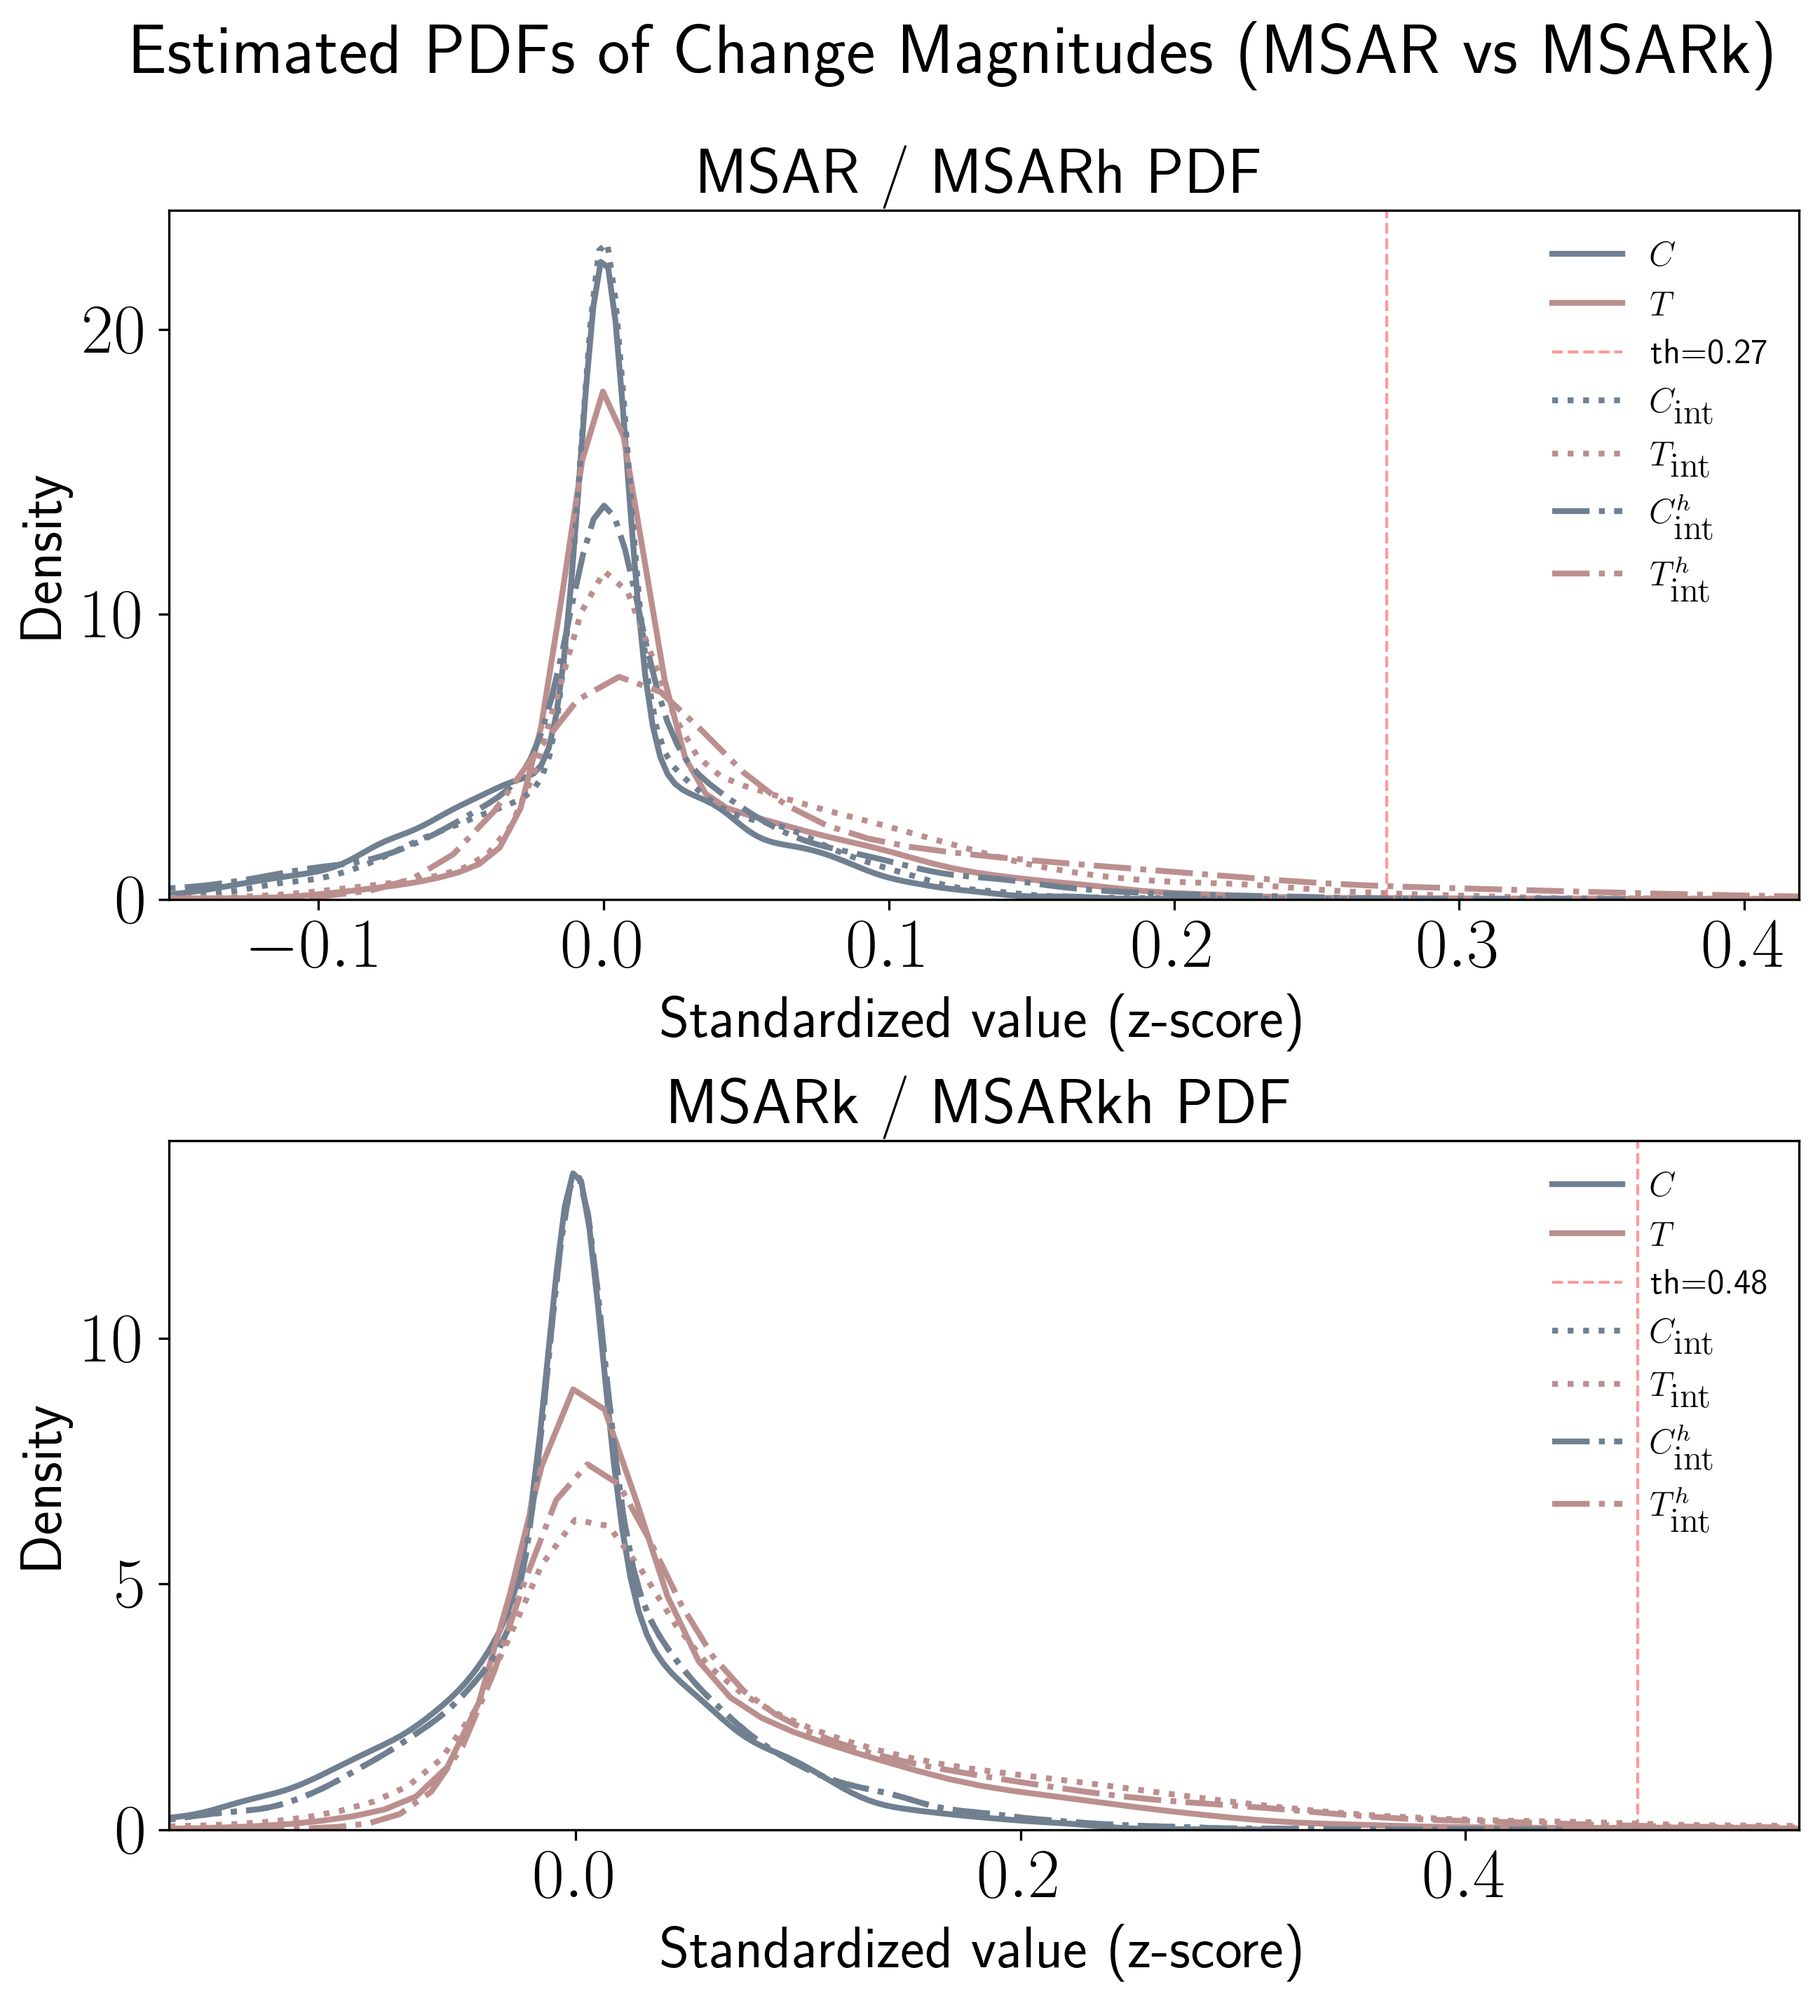
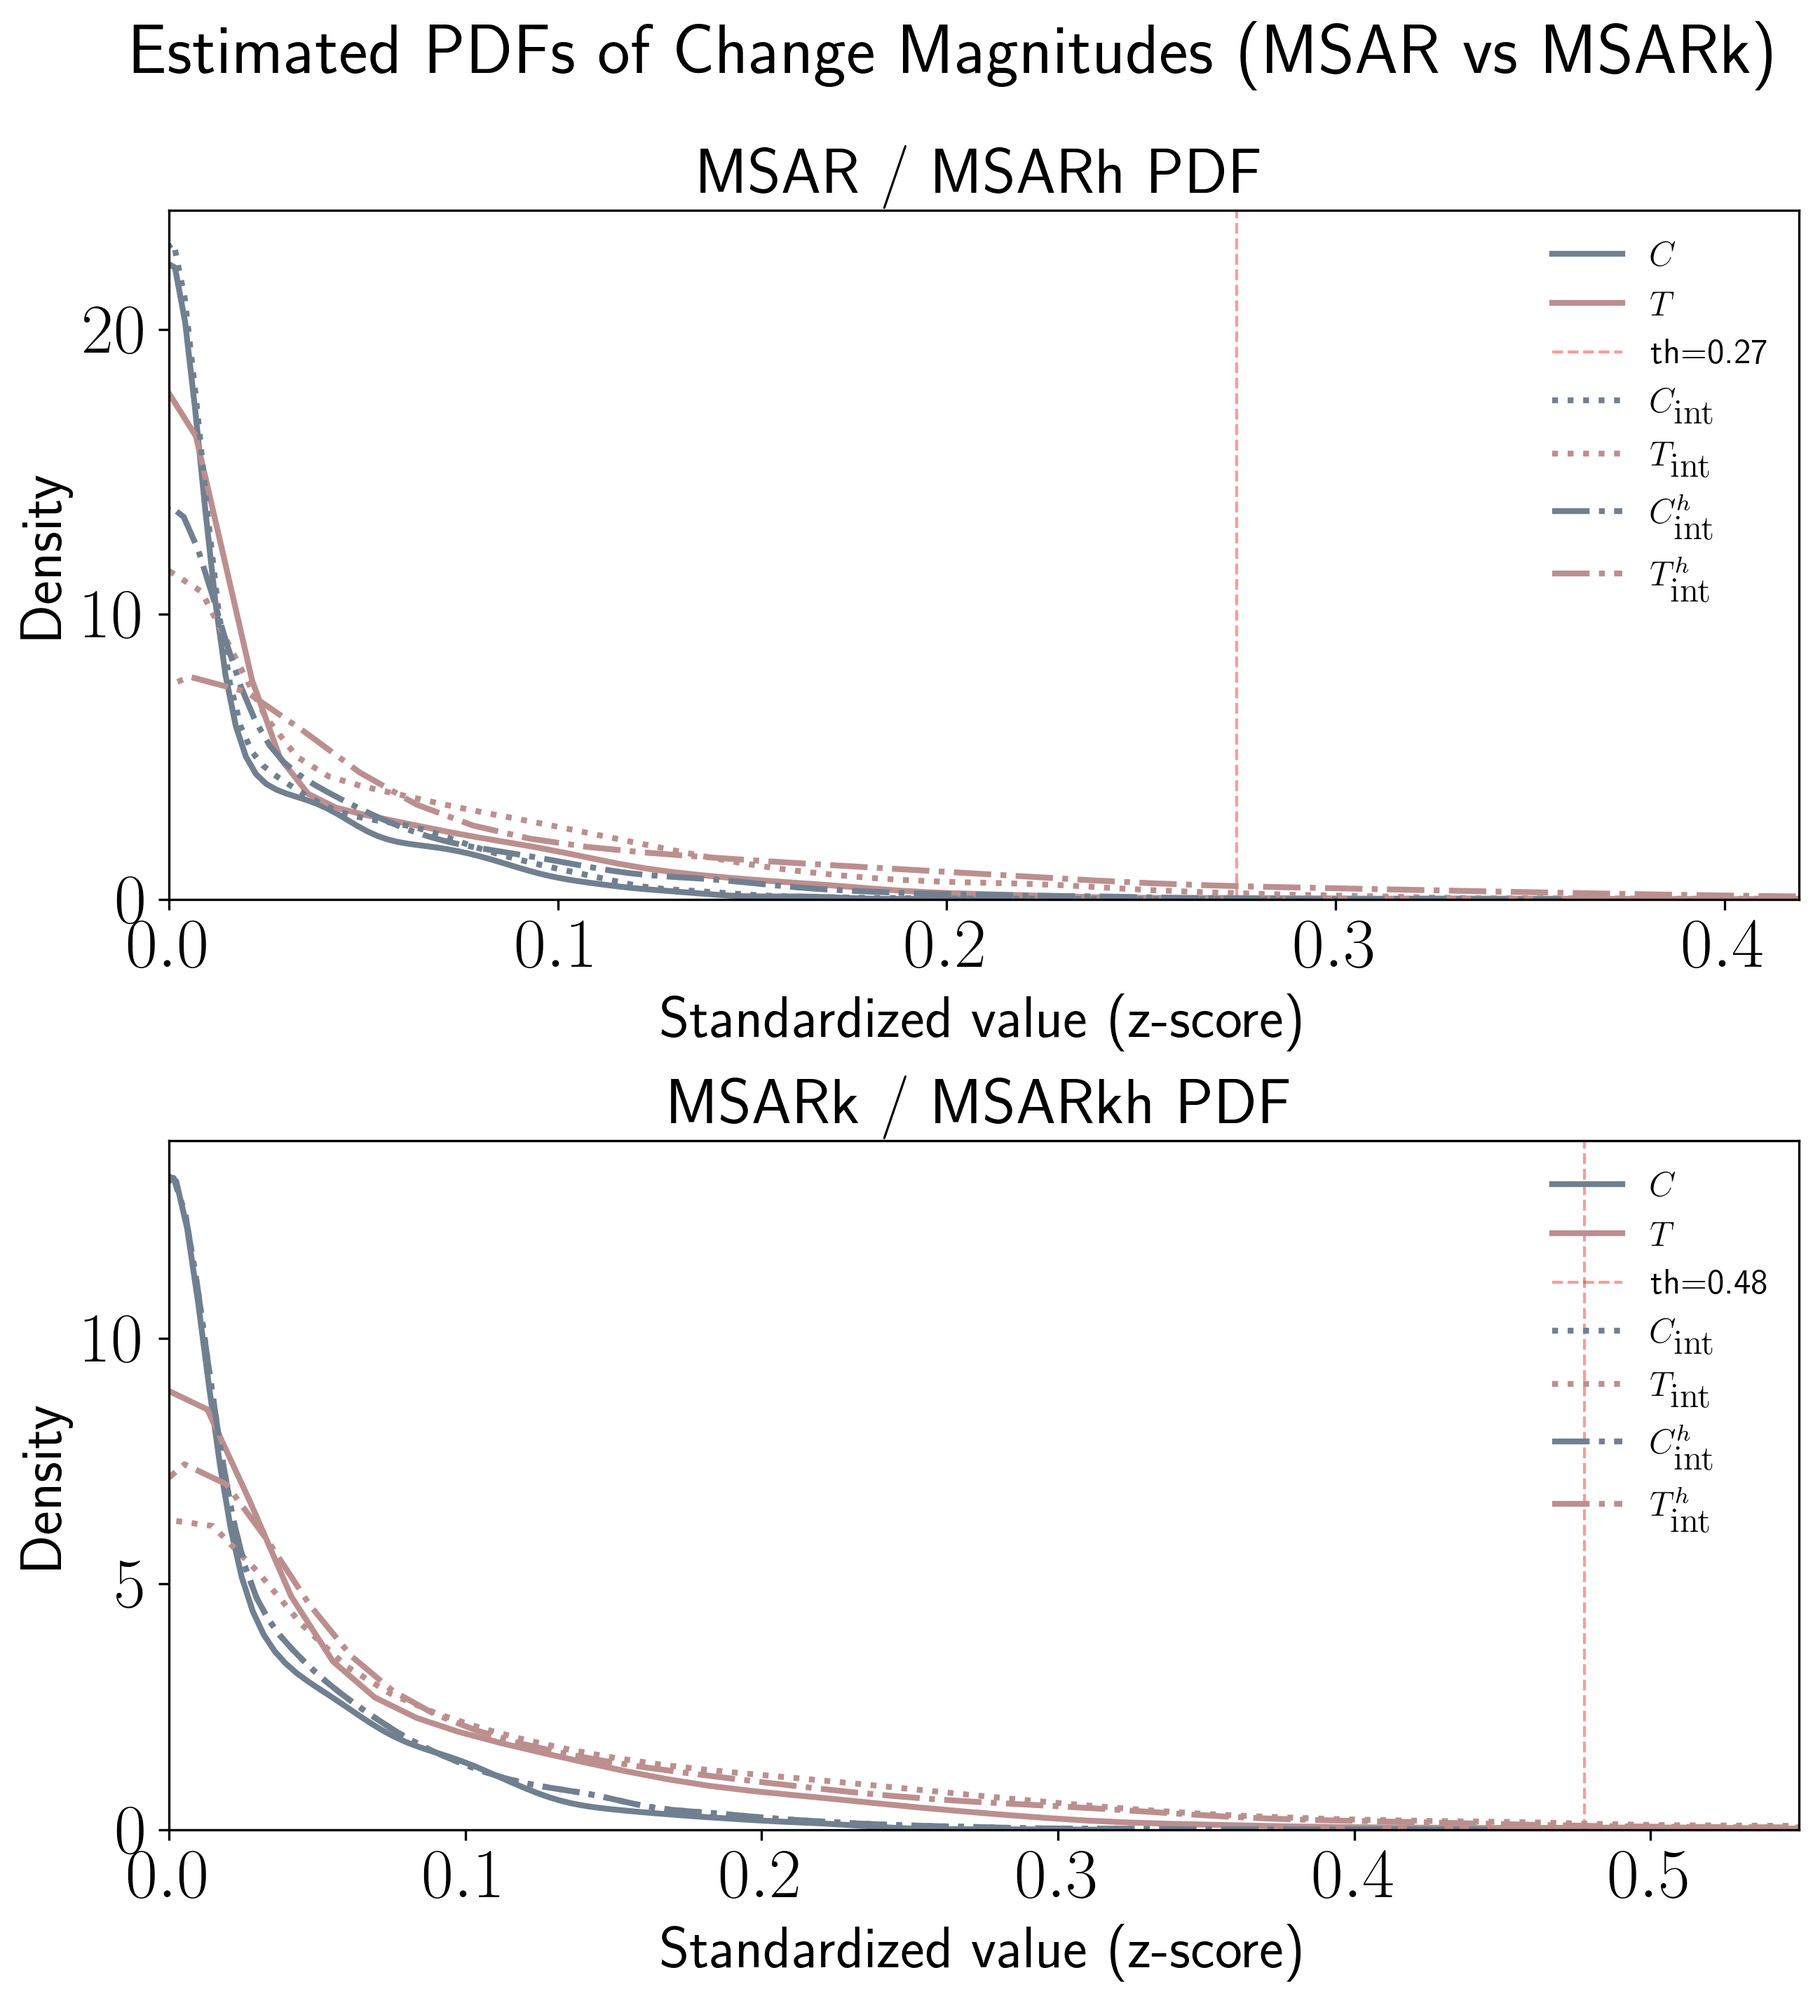
Plot ROC asjustements

diff --git a/results/PlotROC.py b/results/PlotROC.py
@@ -1,242 +1,107 @@
-from __future__ import division
+import matplotlib.pyplot as plt
 import numpy as np
-import time
-from matplotlib import pyplot as plt
-import array
-import scipy.io
-import scipy.io as io
-from sklearn.metrics import roc_curve, roc_auc_score
-
 import os
-import pyprind
-import re
-import scipy.io as sio
-import datetime
-import numpy as np
-import time
-from matplotlib import pyplot as plt
-import array
-import scipy.io
-import scipy.io as io
-import pyprind
 import math
+from scipy.io import loadmat
 from ast import literal_eval
 import scienceplots
-
 
 def OrderData(theta, tput_meas):
     Theta = sorted(set(theta))
     TPUT_meas = []
     for k in range(len(Theta)):
         indexes=[i for i, x in enumerate(theta) if x == Theta[k]]
-        Tput_meas= 0
-        for i in indexes:
-            Tput_meas += tput_meas[i]
+        Tput_meas = sum(tput_meas[i] for i in indexes)
         TPUT_meas.append(Tput_meas)
     return Theta, TPUT_meas
-
-
 
 if __name__ == "__main__":
 
     path = 'results/ROC/'
     pathOut = 'results/plots/'
     files_plots = [i for i in os.listdir(path) if i.endswith('.mat')]
-    
+
     PD = []
     PFA = []
-    window = []
     Type = []
-    pd=[];pfa=[]
+    AUCs = []
+    labels_latex = []
 
-    for i in range(len(files_plots)):
-        if files_plots[i].find('MSAR_') != -1:
-                #print(files_plots[i])
-                Test = r'MS-AR($6,1,0$)'
-                N = int(re.findall(r'[-+]?(?:\d*\.\d+|\d+)', files_plots[i][:-4])[0])
-                K = int(re.findall(r'[-+]?(?:\d*\.\d+|\d+)', files_plots[i][:-4])[1])
-                r = scipy.io.loadmat(path+files_plots[i])
-       
-                pfa_range=r['pfa_range.mat'][0].tolist()
-                PD_type=r['PD_type.mat'].tolist()[0]
-                FAR_type=r['FAR_type.mat'].tolist()[0]
-                
-                PD_type= literal_eval(PD_type)
-                
-                
-                FAR_type= literal_eval(FAR_type)  
-                
-                
-        elif files_plots[i].find('MSARkh_') != -1:
-                #print(files_plots[i])
-                Test = r'MS-AR($18,2,1$)'
-                N = int(re.findall(r'[-+]?(?:\d*\.\d+|\d+)', files_plots[i][:-4])[0])
-                K = int(re.findall(r'[-+]?(?:\d*\.\d+|\d+)', files_plots[i][:-4])[1])
-               
-                r = scipy.io.loadmat(path+files_plots[i])
-       
-                pfa_range=r['pfa_range.mat'][0].tolist()
-                PD_type=r['PD_type.mat'].tolist()[0]
-                FAR_type=r['FAR_type.mat'].tolist()[0]
-                
-                PD_type= literal_eval(PD_type)
-                
-                
-                FAR_type= literal_eval(FAR_type)
-                
-           
-        
-        elif files_plots[i].find('GPalm2020') != -1:
-                   Test = r'AR(n)-GSP\textsuperscript{[15]}'
-                   N = int(re.findall(r'[-+]?(?:\d*\.\d+|\d+)', files_plots[i][:-4])[0])
-                   K = int(re.findall(r'[-+]?(?:\d*\.\d+|\d+)', files_plots[i][:-4])[1])
-                   
+    for fname in files_plots:
+        file_path = os.path.join(path, fname)
+        r = loadmat(file_path)
+        pfa_range = r['pfa_range.mat'][0].tolist()
+        PD_type = literal_eval(r['PD_type.mat'].tolist()[0])
+        FAR_type = literal_eval(r['FAR_type.mat'].tolist()[0])
 
-                   r = scipy.io.loadmat(path+files_plots[i])
-                   pfa_range=r['pfa_range.mat'][0].tolist()
-                   PD_type=r['PD_type.mat'].tolist()[0]
-                   FAR_type=r['FAR_type.mat'].tolist()[0]
+        if 'MSAR_' in fname:
+            label = r'MS-AR($6,1,0$)'
+        elif 'MSARk_' in fname:
+            label = r'MS-AR($18,2,0$)'
+        elif 'MSARkh_' in fname:
+            label = r'MS-AR($18,2,1$)'
+        elif 'GPalm2020' in fname:
+            label = r'AR($n$)-GSP\textsuperscript{[15]}'
+        elif 'CNN-GSP' in fname:
+            label = r'CNN-GSP\textsuperscript{[17]}'
+        else:
+            label = 'Unknown'
 
-                   PD_type= literal_eval(PD_type)
-                   FAR_type= literal_eval(FAR_type)      
-                
-                
-        elif files_plots[i].find('MSARk_') != -1:
-                #print(files_plots[i])
-                Test = r'MS-AR($18,2,0$)'
-                N = int(re.findall(r'[-+]?(?:\d*\.\d+|\d+)', files_plots[i][:-4])[0])
-                K = int(re.findall(r'[-+]?(?:\d*\.\d+|\d+)', files_plots[i][:-4])[1])
-                
-                
-                
+        Type.append(label)
+        PD.append(PD_type)
+        PFA.append([max(f, 1e-4) for f in FAR_type])  # Avoid log(0)
 
-                r = scipy.io.loadmat(path+files_plots[i])
-       
-                pfa_range=r['pfa_range.mat'][0].tolist()
-                PD_type=r['PD_type.mat'].tolist()[0]
-                FAR_type=r['FAR_type.mat'].tolist()[0]
-                
-                PD_type= literal_eval(PD_type)
-                
-                
-                FAR_type= literal_eval(FAR_type)  
-       
- 
-        elif files_plots[i].find('CNN-GSP') != -1:
-                   Test = r'CNN-GSP\textsuperscript{[17]}'
-                   N = int(re.findall(r'[-+]?(?:\d*\.\d+|\d+)', files_plots[i][:-4])[0])
-                   K = int(re.findall(r'[-+]?(?:\d*\.\d+|\d+)', files_plots[i][:-4])[1])
-                   
-
-                   r = scipy.io.loadmat(path+files_plots[i])
-                   pfa_range=r['pfa_range.mat'][0].tolist()
-                   PD_type=r['PD_type.mat'].tolist()[0]
-                   FAR_type=r['FAR_type.mat'].tolist()[0]
-
-                   PD_type= literal_eval(PD_type)
-                   FAR_type= literal_eval(FAR_type) 
-     
-                
-
-                   
-                   
-        PD.append(PD_type); PFA.append(FAR_type); window.append(N); Type.append(Test) 
-        
-
+    # --- Plot Setup --- #
     plt.rc('text', usetex=True)
-    DPI = 600
+    plt.style.use(['science', 'ieee', 'std-colors'])
 
+    fig, ax = plt.subplots(figsize=(6.5, 4.5), dpi=600)
 
-    SMALL_SIZE = 10
-    MEDIUM_SIZE = 16
-    BIGGER_SIZE = 12
+    color_list = ['royalblue', 'darkred', 'mediumseagreen', 'darkorange', 'gray']
+    marker_list = ['o', 's', '^', 'D', '*']
+    linestyle_list = ['-', '--', '-.', ':', '-']
 
-    plt.rc('xtick', labelsize=SMALL_SIZE)    # fontsize of the tick labels
-    plt.rc('ytick', labelsize=SMALL_SIZE)    # fontsize of the tick labels
-    
- 
-    pparam2 = dict(xlabel=r'FLOP/sec', ylabel=r'Battery Discharge ($\%$)')
+    for i in range(len(PD)):
+        pd_curve = np.array(PD[i])
+        pfa_curve = np.clip(np.array(PFA[i]), 1e-4, 1)  # Ensure finite values
 
-    
+        # Sort and normalize
+        idx = np.argsort(pfa_curve)
+        pd_sorted = pd_curve[idx]
+        far_sorted = pfa_curve[idx]
+        far_norm = (far_sorted - far_sorted[0]) / (far_sorted[-1] - far_sorted[0])
+        auc_score = np.trapz(pd_sorted, far_norm)
 
-    with plt.style.context(['science', 'ieee', 'std-colors']):
-            
-            #order = [3, 0, 4, 2, 1] 
-            fig, ax2 = plt.subplots(figsize=(5,3), dpi=DPI)
-            ax2.set_prop_cycle(color=['darkred', 'indianred', 'royalblue', 'cornflowerblue', 'gray'],marker = ['o','*', 'p', 's','<'], linestyle=['dashdot','solid', 'solid', 'solid', 'solid'],alpha=[0.8, 0.4, 0.8, 0.3, 0.3]) #linewidth=2
-            ax2.set_prop_cycle(color=['royalblue', 'indianred', 'darkblue','darkred', 'darkviolet',  'indianred'],marker = ['o','*', 'p', 's','<', 'o'])#linewidth=2
-            for i in range(len(PD)):
-                
-                PFA[i] = list(map(lambda i: 0.0001 if i==0 else i, PFA[i]))
-                PFA[i] = np.clip(PFA[i],0,1)#[min(x, 0.00001) for x in PFA[i]]
-                
-                
-                far = np.array(PFA[i])
-                pd  = np.array(PD[i])
-                print(Type[i])
-                print(far)
-                print(pd)
+        AUCs.append(auc_score)
+        labels_latex.append(r'%s (AUC=%.3f)' % (Type[i], auc_score))
 
-                # Sort and normalize
-                idx = np.argsort(far)
-                far_sorted = far[idx]
-                pd_sorted = pd[idx]
-                far_norm = (far_sorted - far_sorted[0]) / (far_sorted[-1] - far_sorted[0])
+        log_far = np.log10(far_sorted)
+        ax.plot(log_far, pd_sorted,
+                label=labels_latex[-1],
+                color=color_list[i % len(color_list)],
+                linestyle=linestyle_list[i % len(linestyle_list)],
+                marker=marker_list[i % len(marker_list)],
+                linewidth=2, markersize=5, alpha=0.9)
 
-                # Compute AUC
-                auc_norm = np.trapz(pd_sorted, far_norm)
-                print(f"Normalized AUC (MS-AR(18,2,1)) = {auc_norm:.4f}")
-        
-                PFA[i] = [math.log(y,10) for y in PFA[i]]
-                
-                
-                
-                
-                [FARx, PDy] = OrderData(PD[i], PFA[i])
-                end  = np.argmax(PDy)
-                 
+    # --- Axis Labels and Grid --- #
+    ax.set_xlabel(r'$\log_{10}$ FAR', fontsize=16)
+    ax.set_ylabel(r'$P_D$', fontsize=16)
+    ax.set_xlim([-1.65, 0])
+    ax.set_ylim([0.94, 1.005])
+    ax.grid(True, which='both', linestyle='-', linewidth=0.4, alpha=0.4)
+    ax.minorticks_on()
+    ax.yaxis.set_tick_params(labelleft=False, labelright=True)
 
-                ax2.plot(PFA[i], PD[i], linewidth=2, label=r'%s(AUC=%.4f)'%(Type[i],auc_norm)) # test append(s)
-                
-                
+    # --- Legend Sorted by AUC --- #
+    handles, labels = ax.get_legend_handles_labels()
+    auc_sorted = sorted(zip(AUCs, handles, labels), reverse=True)
+    auc_handles = [x[1] for x in auc_sorted]
+    auc_labels = [x[2] for x in auc_sorted]
 
-            ax2.legend(title='Order')
-            ax2.set(**pparam2)
-            ax2.legend(prop={'size':12})
-            ax2.set_ylabel(r'$P_{D}$', fontsize=14)  
-            ax2.set_xlabel(r'$\log_{10}$ FAR', fontsize=14)  
-            ax2.xaxis.set_label_coords(.5, -.15)
-            ax2.set_xlim([-1.8, 0])
-            #ax2.set_xlim([0.25, 1.25])
-            ax2.set_ylim([0.93, 1.005])
-             
-            
-            ax2.grid(True)
-            g1 = ax2.grid(visible=True, which='major', color='k', linestyle='-', alpha=0.45, linewidth=0.5)
-            g2 = ax2.grid(visible=True, which='minor', color='k', linestyle='-', alpha=0.25, linewidth=0.2)
-            ax2.minorticks_on()
-            ax2.yaxis.set_tick_params(labelleft=False, labelright=True)
-            
-            # reordering the labels 
-            handles, labels = plt.gca().get_legend_handles_labels() 
-            
-            # specify order 
-            order = [3, 0, 4, 2, 1] 
-            
-            
-            
-            # pass handle & labels lists along with order as below 
-            ax2.legend([handles[i] for i in order], [labels[i] for i in order],facecolor="pink") 
+    ax.legend(auc_handles, auc_labels, loc='lower center', bbox_to_anchor=(0.5, 1.0),
+              fancybox=True, shadow=True, ncol=2, fontsize=10, title="Methods")
 
-
-            ax2.legend(loc='lower center', bbox_to_anchor=(0.5, 1), fancybox=True, shadow=True, ncol=2)
-           
-            fig.subplots_adjust(bottom=0.2)
-            fig.savefig(pathOut + 'Plot_ROC.png', dpi=DPI)
-    plt.show()      
-
-        
-
-            
-    
-    
+    fig.subplots_adjust(bottom=0.2, top=0.85)
+    os.makedirs(pathOut, exist_ok=True)
+    fig.savefig(os.path.join(pathOut, 'ROC_MSAR_All.png'), dpi=600)
+    plt.show()

diff --git a/analysis/MSAR_pdf.py b/analysis/MSAR_pdf.py
@@ -185,7 +185,7 @@ if __name__ == "__main__":
             # Ajustar limite horizontal com base nos dados
             xmin = np.percentile(all_values, 0.5)
             xmax = np.percentile(all_values, 99.5)
-            ax.set_xlim([xmin, xmax])
+            ax.set_xlim([0, xmax])
 
             ax.set_title(f'{Test} / {Test_h} PDF', fontsize=22)
             ax.set_ylabel('Density', fontsize=20)
